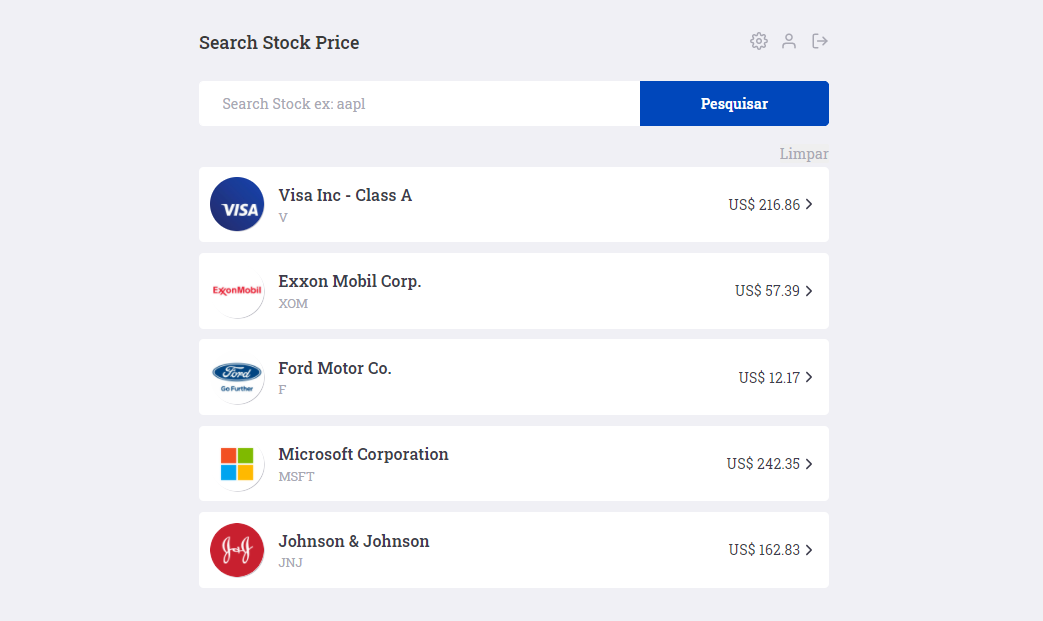
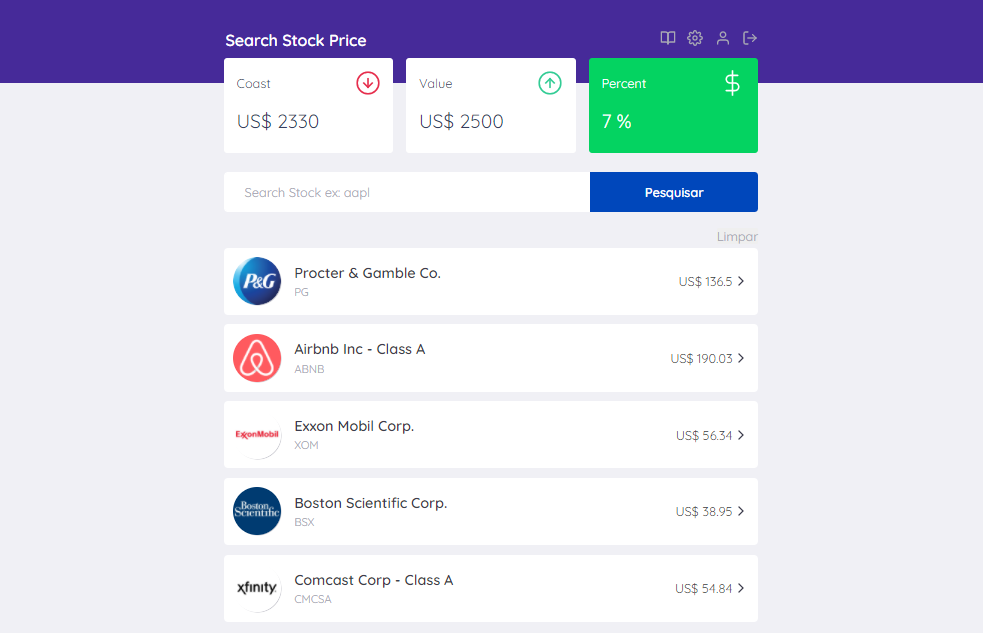
imagens

diff --git a/src/components/Summary/index.tsx b/src/components/Summary/index.tsx
@@ -42,7 +42,7 @@ export function Summary() {
                     <img src={incomeImg} alt="" />
                 </header>
 
-                <strong>US$ {summary.value}</strong>
+                <strong>US$ 2{summary.value}</strong>
             </div>
 
             <div className="highlight-background">
@@ -51,7 +51,7 @@ export function Summary() {
                     <img src={totalImg} alt="" />
                 </header>
 
-                <strong>{summary.total}</strong>
+                <strong>7 %</strong>
             </div>
         </Container>
     )
